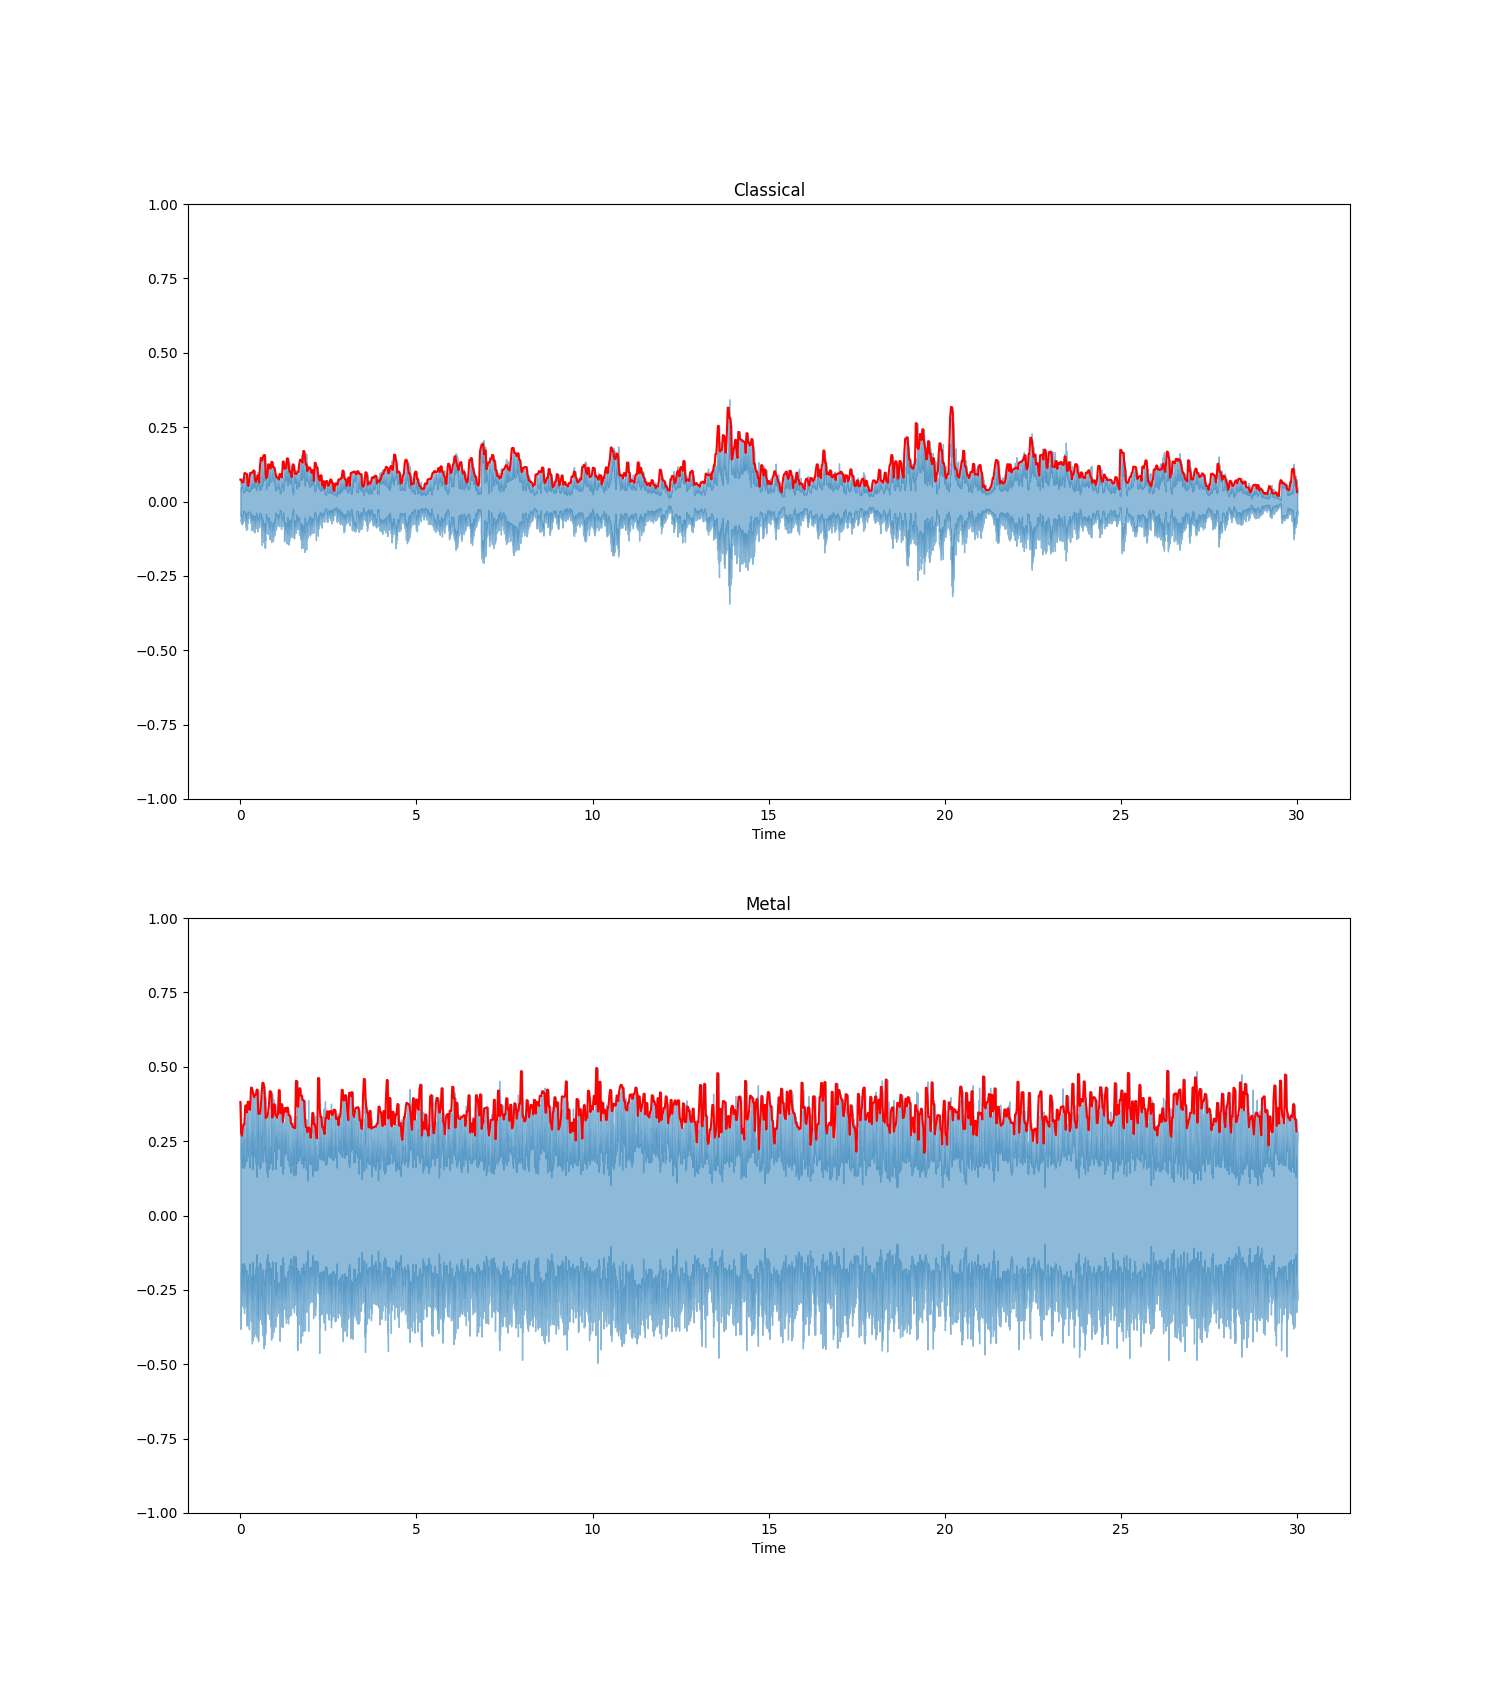
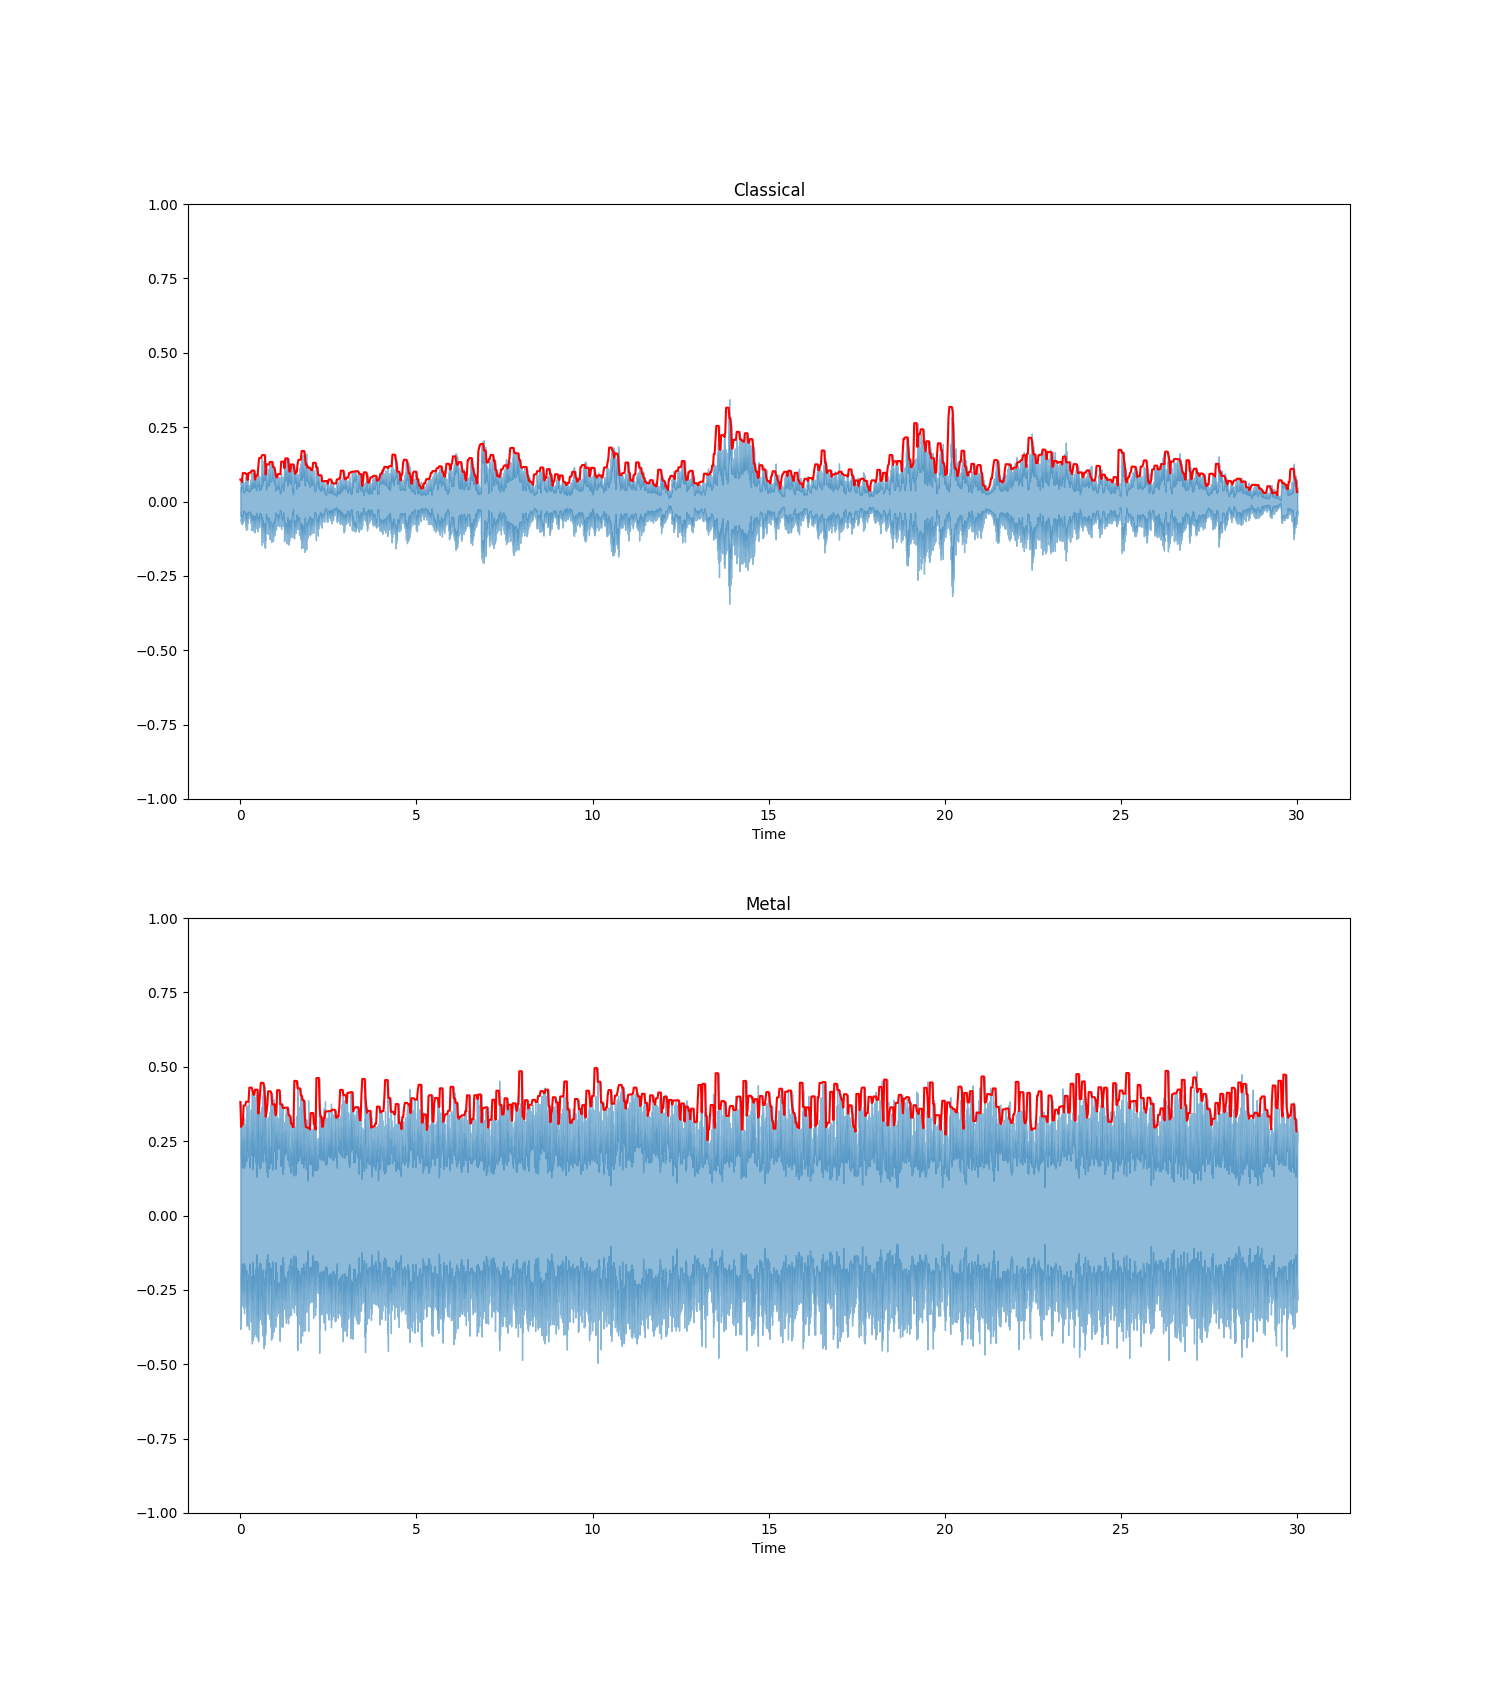
rms

diff --git a/tutorial.py b/tutorial.py
@@ -35,21 +35,25 @@ metal, _ = lbr.load(metal_wav)
 
 print(f"Sample duration {1/sr:.6f} seconds")
 
+'''
 plt.figure(figsize=(15,17))
 
 plt.subplot(2,1,1)
-librosa.display.waveshow(classical)
+librosa.display.waveshow(classical, alpha=0.5)
+plt.ylim((-1, 1))
 plt.title("Class")
 
 plt.subplot(2,1,2)
-librosa.display.waveshow(metal)
+librosa.display.waveshow(metal, alpha=0.5)
+plt.ylim((-1, 1))
 plt.title("Metal")
 
 plt.show()
 
-# plt.savefig("tutwav.png")
+plt.savefig("tutwav.png")
+'''
 
-FRAME_SIZE = 1024
+FRAME_SIZE = 2048
 HOP_LENGTH = 512
 
 def amplitude_envelope(signal, frame_size, hop_length):
@@ -65,6 +69,7 @@ tcl = librosa.frames_to_time(frames, hop_length=HOP_LENGTH)
 framesm = range(len(ae_metal))
 tm = librosa.frames_to_time(framesm, hop_length=HOP_LENGTH)
 
+'''
 plt.figure(figsize=(15, 17))
 
 ax = plt.subplot(2, 1, 1)
@@ -80,3 +85,26 @@ plt.ylim((-1, 1))
 plt.title("Metal")
 
 plt.savefig("ae.png")
+'''
+
+rms_clas = lbr.feature.rms(y = classical, frame_length=FRAME_SIZE, hop_length=HOP_LENGTH)[0]
+rms_metal = lbr.feature.rms(y = metal, frame_length=FRAME_SIZE, hop_length=HOP_LENGTH)[0]
+
+framesmr = range(len(rms_metal))
+tmr = librosa.frames_to_time(framesmr, hop_length=HOP_LENGTH)
+
+plt.figure(figsize=(15, 17))
+
+ax = plt.subplot(2, 1, 1)
+librosa.display.waveshow(classical, alpha=0.5)
+plt.plot(tcl, rms_clas, color="r")
+plt.ylim((-1, 1))
+plt.title("Classical")
+
+plt.subplot(2, 1, 2)
+librosa.display.waveshow(metal, alpha=0.5)
+plt.plot(tmr, rms_metal, color="r")
+plt.ylim((-1, 1))
+plt.title("Metal")
+
+plt.savefig("rms.png")
